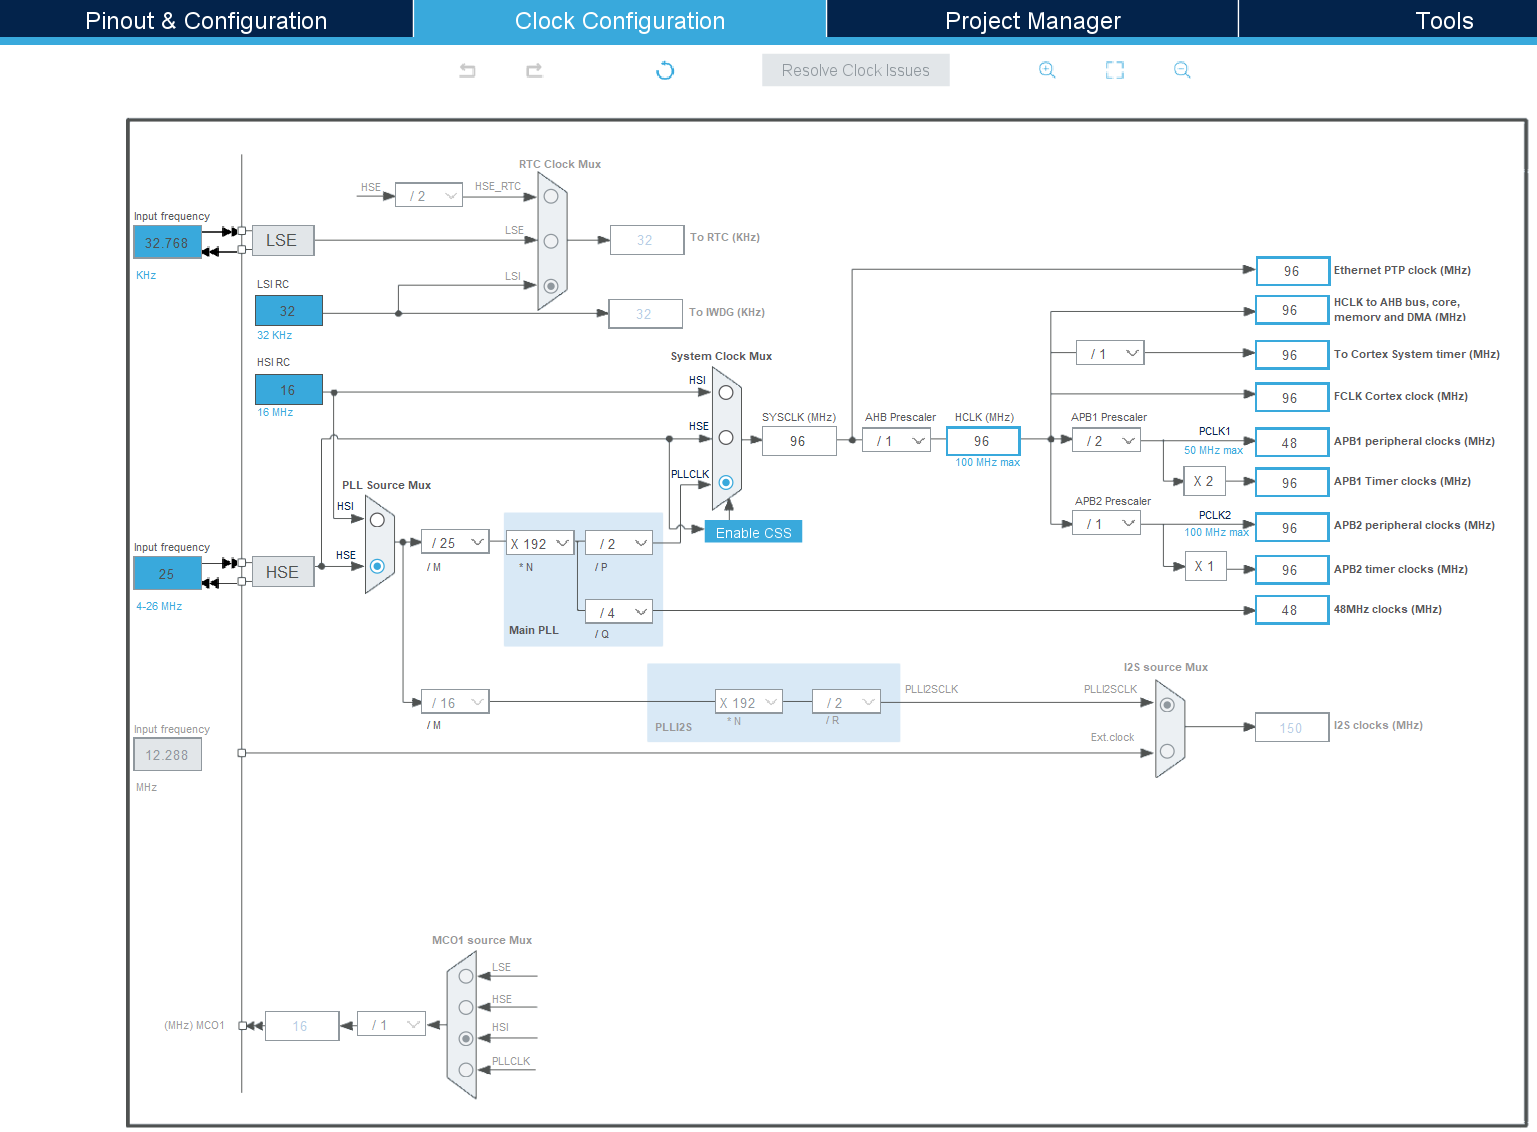
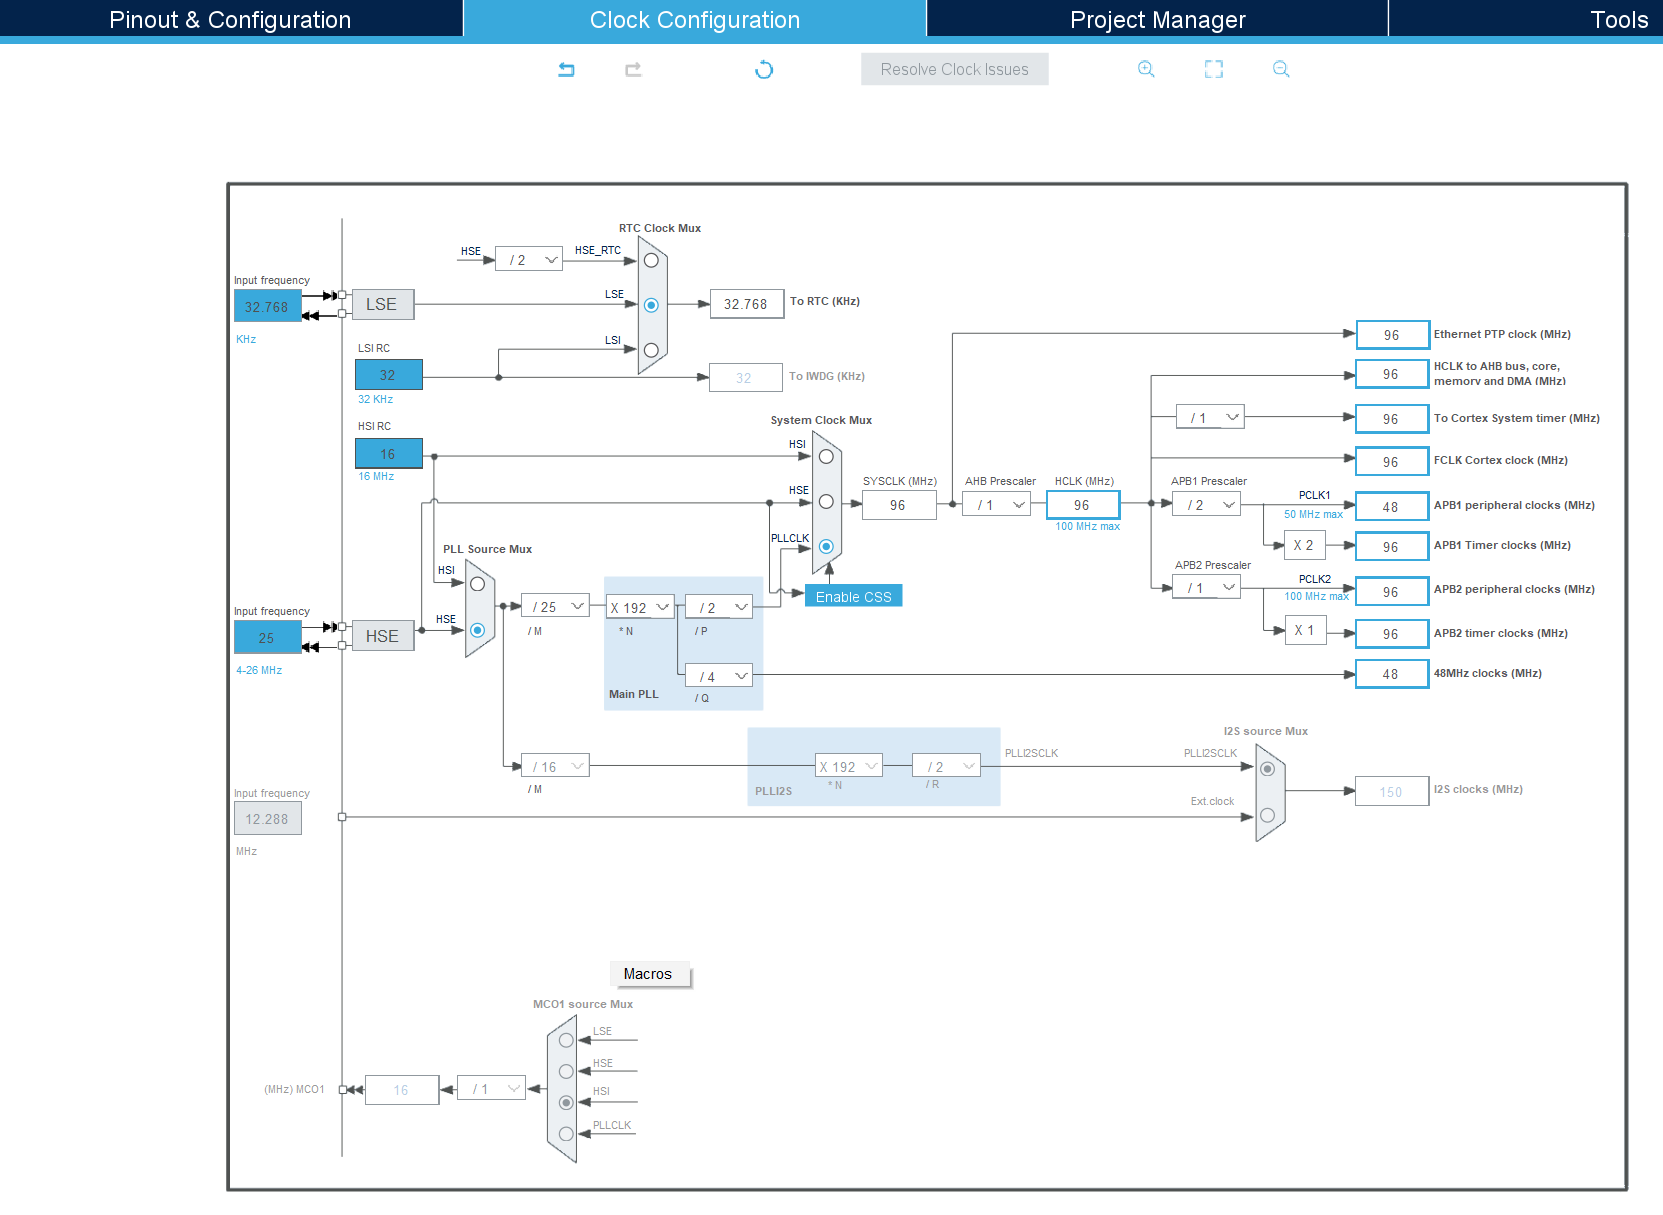
RTC追加

Changed region(s): [[0.0, 0.0, 1.0, 1.0], [0.812, 0.6184, 0.9369, 0.6802]]

diff --git a/Core/Src/main.c b/Core/Src/main.c
@@ -41,6 +41,8 @@
 /* USER CODE END PM */
 
 /* Private variables ---------------------------------------------------------*/
+RTC_HandleTypeDef hrtc;
+
 SPI_HandleTypeDef hspi1;
 
 /* USER CODE BEGIN PV */
@@ -51,6 +53,7 @@ bool isUSBMSC;
 void SystemClock_Config(void);
 static void MX_GPIO_Init(void);
 static void MX_SPI1_Init(void);
+static void MX_RTC_Init(void);
 /* USER CODE BEGIN PFP */
 
 /* USER CODE END PFP */
@@ -67,6 +70,9 @@ static void MX_SPI1_Init(void);
 int main(void)
 {
   /* USER CODE BEGIN 1 */
+  char fname[30];
+  RTC_TimeTypeDef sTime;
+  RTC_DateTypeDef sDate;
   isUSBMSC = false;
 
   /* USER CODE END 1 */
@@ -91,8 +97,31 @@ int main(void)
   MX_USB_DEVICE_Init();
   MX_SPI1_Init();
   MX_FATFS_Init();
+  MX_RTC_Init();
   /* USER CODE BEGIN 2 */
+  /*Initialize RTC
+  sTime.Hours = 0x20;
+  sTime.Minutes = 0x27;
+  sTime.Seconds = 0x0;
+  sTime.DayLightSaving = RTC_DAYLIGHTSAVING_NONE;
+  sTime.StoreOperation = RTC_STOREOPERATION_RESET;
+  if (HAL_RTC_SetTime(&hrtc, &sTime, RTC_FORMAT_BCD) != HAL_OK)
+  {
+    Error_Handler();
+  }
+  sDate.WeekDay = RTC_WEEKDAY_SATURDAY;
+  sDate.Month = RTC_MONTH_SEPTEMBER;
+  sDate.Date = 0x16;
+  sDate.Year = 0x22;
+  if (HAL_RTC_SetDate(&hrtc, &sDate, RTC_FORMAT_BCD) != HAL_OK)
+  {
+    Error_Handler();
+  }
+  /*ここまで*/
 
+  HAL_RTC_GetTime(&hrtc, &sTime, RTC_FORMAT_BIN);
+  HAL_RTC_GetDate(&hrtc, &sDate, RTC_FORMAT_BIN);
+  sprintf(fname,"%02d%02d%02d%02d.txt",sDate.Month,sDate.Date,sTime.Hours,sTime.Minutes);
   uint32_t byteswritten;
   uint8_t wtext[] = "Hi, this is STM32 working with FatFs\n";
 
@@ -102,12 +131,12 @@ int main(void)
     while(f_mount(&USERFatFS, USERPath, 1) != FR_OK) {
       HAL_Delay(1000);
     }
-    if(f_open(&USERFile, "STM32.TXT", FA_CREATE_ALWAYS | FA_WRITE) != FR_OK) {
+    if(f_open(&USERFile, fname, FA_CREATE_ALWAYS | FA_WRITE) != FR_OK) {
       Error_Handler();
     }
     else
     {
-      retUSER = f_write(&USERFile, wtext, sizeof(wtext), (void *)&byteswritten);
+      retUSER = f_write(&USERFile, wtext, strlen(wtext), (void *)&byteswritten);
       if((byteswritten == 0) || (retUSER != FR_OK))
       {
         Error_Handler();
@@ -155,8 +184,9 @@ void SystemClock_Config(void)
   /** Initializes the RCC Oscillators according to the specified parameters
   * in the RCC_OscInitTypeDef structure.
   */
-  RCC_OscInitStruct.OscillatorType = RCC_OSCILLATORTYPE_HSE;
+  RCC_OscInitStruct.OscillatorType = RCC_OSCILLATORTYPE_HSE|RCC_OSCILLATORTYPE_LSE;
   RCC_OscInitStruct.HSEState = RCC_HSE_ON;
+  RCC_OscInitStruct.LSEState = RCC_LSE_ON;
   RCC_OscInitStruct.PLL.PLLState = RCC_PLL_ON;
   RCC_OscInitStruct.PLL.PLLSource = RCC_PLLSOURCE_HSE;
   RCC_OscInitStruct.PLL.PLLM = 25;
@@ -181,6 +211,41 @@ void SystemClock_Config(void)
   {
     Error_Handler();
   }
+}
+
+/**
+  * @brief RTC Initialization Function
+  * @param None
+  * @retval None
+  */
+static void MX_RTC_Init(void)
+{
+
+  /* USER CODE BEGIN RTC_Init 0 */
+
+  /* USER CODE END RTC_Init 0 */
+
+  /* USER CODE BEGIN RTC_Init 1 */
+
+  /* USER CODE END RTC_Init 1 */
+
+  /** Initialize RTC Only
+  */
+  hrtc.Instance = RTC;
+  hrtc.Init.HourFormat = RTC_HOURFORMAT_24;
+  hrtc.Init.AsynchPrediv = 127;
+  hrtc.Init.SynchPrediv = 255;
+  hrtc.Init.OutPut = RTC_OUTPUT_DISABLE;
+  hrtc.Init.OutPutPolarity = RTC_OUTPUT_POLARITY_HIGH;
+  hrtc.Init.OutPutType = RTC_OUTPUT_TYPE_OPENDRAIN;
+  if (HAL_RTC_Init(&hrtc) != HAL_OK)
+  {
+    Error_Handler();
+  }
+  /* USER CODE BEGIN RTC_Init 2 */
+
+  /* USER CODE END RTC_Init 2 */
+
 }
 
 /**

diff --git a/FATFS/App/fatfs.c b/FATFS/App/fatfs.c
@@ -1,0 +1,66 @@
+/* USER CODE BEGIN Header */
+/**
+  ******************************************************************************
+  * @file   fatfs.c
+  * @brief  Code for fatfs applications
+  ******************************************************************************
+  * @attention
+  *
+  * Copyright (c) 2022 STMicroelectronics.
+  * All rights reserved.
+  *
+  * This software is licensed under terms that can be found in the LICENSE file
+  * in the root directory of this software component.
+  * If no LICENSE file comes with this software, it is provided AS-IS.
+  *
+  ******************************************************************************
+  */
+#include "main.h"
+/* USER CODE END Header */
+#include "fatfs.h"
+
+uint8_t retUSER;    /* Return value for USER */
+char USERPath[4];   /* USER logical drive path */
+FATFS USERFatFS;    /* File system object for USER logical drive */
+FIL USERFile;       /* File object for USER */
+
+/* USER CODE BEGIN Variables */
+extern RTC_HandleTypeDef hrtc;
+
+/* USER CODE END Variables */
+
+void MX_FATFS_Init(void)
+{
+  /*## FatFS: Link the USER driver ###########################*/
+  retUSER = FATFS_LinkDriver(&USER_Driver, USERPath);
+
+  /* USER CODE BEGIN Init */
+  /* additional user code for init */
+  /* USER CODE END Init */
+}
+
+/**
+  * @brief  Gets Time from RTC
+  * @param  None
+  * @retval Time in DWORD
+  */
+DWORD get_fattime(void)
+{
+  /* USER CODE BEGIN get_fattime */
+	RTC_TimeTypeDef sTime;
+	RTC_DateTypeDef sDate;
+	HAL_RTC_GetTime(&hrtc, &sTime, RTC_FORMAT_BIN);
+	HAL_RTC_GetDate(&hrtc, &sDate, RTC_FORMAT_BIN);
+
+	return((DWORD)(sDate.Year+2000 - 1980) << 25)
+			| ((DWORD)sDate.Month << 21)
+			| ((DWORD)sDate.Date << 16)
+			| ((DWORD)sTime.Hours << 11)
+			| ((DWORD)sTime.Minutes << 5)
+			| ((DWORD)sTime.Seconds >> 1);
+  /* USER CODE END get_fattime */
+}
+
+/* USER CODE BEGIN Application */
+
+/* USER CODE END Application */

diff --git a/project.md b/project.md
@@ -17,6 +17,11 @@
 GPIO PA4を出力で使う  
 ![](image/GPIO.png)
 
+#### RTCを使う
+なんか文句ありげに見えるけどこのまま  
+Activate Calenderをチェックすると毎回時刻が初期化される  
+![](image/RTC.png)
+
 #### USBの設定
 ![](image/USB_FS.png)
 
@@ -30,6 +35,7 @@ MAX_SS,MIN_SSを4096にする
 
 ## Clock Confgurationタブ
 USBのクロックは48MHzでないとダメ  
+RTCのクロックを外部の32.768kHzにする  
 ![](image/CLOCK.png)
 
 ## Project Managerタブ

diff --git a/README.md b/README.md
@@ -15,6 +15,9 @@ Black Pill STM32F411にSPI Flashをつけて4MBのUSBメモリにする
 はんだ付けする  
 ![](image/はんだ.png)
 
+VB端子にRTCバックアップ電池を接続する  
+(最初だけRTCの時刻設定をする (コメントアウトを外す))
+
 ## Project作成
 project.md参照
 
